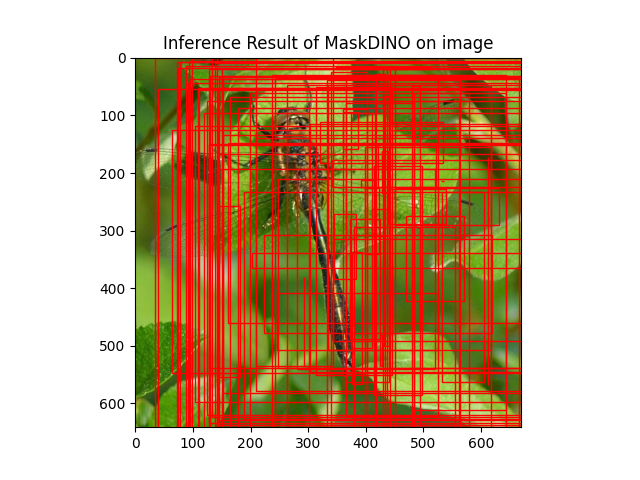
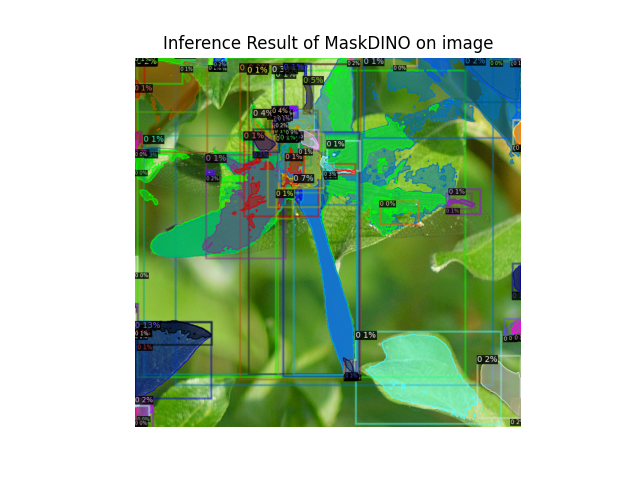
Updating with new inferences

diff --git a/inference_pipeline_mask_dino_zero-shot.py b/inference_pipeline_mask_dino_zero-shot.py
@@ -11,7 +11,8 @@ from sahi.models.base import DetectionModel
 from sahi.prediction import ObjectPrediction
 from sahi.utils.cv import get_bbox_from_bool_mask, get_coco_segmentation_from_bool_mask
 from sahi.utils.import_utils import check_requirements
-
+from detectron2.utils.visualizer import Visualizer
+from detectron2.engine.defaults import DefaultPredictor
 logger = logging.getLogger(__name__)
 # import sys
 # sys.path.insert(0, "/home/mrajaraman/do-not-modify/MassID45/MaskDINO/MaskDINO-MassID45")
@@ -33,7 +34,6 @@ add_deeplab_config(cfg)
 add_maskdino_config(cfg)
 cfg.merge_from_file("/home/mrajaraman/do-not-modify/MassID45/MaskDINO/MaskDINO-MassID45/configs/lifeplan/instance-segmentation/maskdino_R50_bs16_50ep_3s_dowsample1_2048.yaml")
 #cfg.MODEL.WEIGHTS = "/home/mrajaraman/do-not-modify/MassID45/MaskDINO/MaskDINO-MassID45/output_lifeplan_b_512_sahi_tiled_v9_R50_1024_one_cycle_lr_5e-5_colour_augs_15k_iters_scratch/model_final.pth"
-
 # set model device
 # cfg.MODEL.DEVICE = "self.device.type"
 cfg.MODEL.DEVICE = "cuda"
@@ -48,7 +48,8 @@ cfg.freeze()
 predictor = DefaultPredictor(cfg)
 DetectionCheckpointer(predictor.model).load("/home/mrajaraman/Code/model_checkpoints/model_final_maskdino.pth") #, weights_only=False) #, map_location=device)
 print("Model loaded successfully.")
-category_mapping={"1": "b"}
+category_mapping={"1": "head", "2": "thorax", "3": "abdomen", "0": "wings"}
+
 # detectron2 category mapping
 category_names = list(category_mapping.values())
 image = np.array(
@@ -65,24 +66,24 @@ prediction_result = predictor(image)
 # print(prediction_result)
 # original_predictions = prediction_result
 
-img = prediction_result['instances'][0]._fields['pred_masks'].cpu().detach().numpy()
-bbox = []
-print("Number of detected instances is ", len(prediction_result['instances']._fields['pred_boxes'].tensor))
-for i in prediction_result['instances']._fields['pred_boxes'].tensor:
-        print("i is ", i)
-        bbox.append(i.cpu().detach().numpy())
+# img = prediction_result['instances'][0]._fields['pred_masks'].cpu().detach().numpy()
+# bbox = []
+# print("Number of detected instances is ", len(prediction_result['instances']._fields['pred_boxes'].tensor))
+# for i in prediction_result['instances']._fields['pred_boxes'].tensor:
+#         print("i is ", i)
+#         bbox.append(i.cpu().detach().numpy())
 
-# Display the image
-plt.imshow(Image.open('/home/mrajaraman/dataset/originals/img_931176390.jpg'))
+# # Display the image
+# plt.imshow(Image.open('/home/mrajaraman/dataset/originals/img_931176390.jpg'))
 
-# Add the patch to the Axes
-for i in range(len(bbox)):
-        # print("length is ", len(bbox))
-        plt.gca().add_patch(Rectangle((bbox[i][0], bbox[i][1]), bbox[i][2]-bbox[i][0], bbox[i][3]-bbox[i][1], linewidth=1, edgecolor='r', facecolor='none'))
-        print(f"Instance {i+1} added to image")
+# # Add the patch to the Axes
+# for i in range(len(bbox)):
+#         # print("length is ", len(bbox))
+#         plt.gca().add_patch(Rectangle((bbox[i][0], bbox[i][1]), bbox[i][2]-bbox[i][0], bbox[i][3]-bbox[i][1], linewidth=1, edgecolor='r', facecolor='none'))
+#         print(f"Instance {i+1} added to image")
 
-plt.title("Inference Result of MaskDINO on image")
-plt.savefig("inference_maskdino.png")
+# plt.title("Inference Result of MaskDINO on image")
+# plt.savefig("inference_maskdino.png")
 
 # # PROOF THAT RESIZING WORKS AS EXPECTED DURING INFERENCE
 # print(predictor.aug)
@@ -97,3 +98,20 @@ sample_preds = prediction_result['instances'][0]._fields['pred_masks'].cpu().det
 # print(sample_preds)
 # print(sample_preds.shape)
 # print(sample_preds.dtype)
+print(sample_preds)
+# print(sample_preds.shape)
+# print(sample_preds.dtype)
+
+outputs = prediction_result["instances"]
+
+# print(type(outputs))
+# print(type(image))
+
+v = Visualizer(image[:, :, ::-1], metadata=None, scale=1.0)
+out = v.draw_instance_predictions(outputs.to("cpu"))
+plt.imshow(out.get_image())
+plt.axis("off")
+plt.show()
+
+plt.title("Inference Result of MaskDINO on image")
+plt.savefig(f"inference_maskdino.png")

diff --git a/inference_pipeline_mask_dino_trained.py b/inference_pipeline_mask_dino_trained.py
@@ -49,7 +49,8 @@ predictor = DefaultPredictor(cfg)
 # DetectionCheckpointer(predictor.model).load("/home/mrajaraman/master-thesis-dragonfly/external/maskdino-dragonfly/output_lifeplan_b_512_sahi_tiled_v9_R50_1024_one_cycle_lr_5e-5_colour_augs_15k_iters/model_0004884.pth")
 # DetectionCheckpointer(predictor.model).load("/home/mrajaraman/master-thesis-dragonfly/external/maskdino-dragonfly/output_lifeplan_b_512_sahi_tiled_v9_R50_1024_one_cycle_lr_5e-5_colour_augs_15k_iters/model_0009769.pth")
 # DetectionCheckpointer(predictor.model).load("/home/mrajaraman/master-thesis-dragonfly/external/maskdino-dragonfly/output_lifeplan_b_512_sahi_tiled_v9_R50_1024_one_cycle_lr_5e-5_colour_augs_15k_iters/model_0014654.pth")
-DetectionCheckpointer(predictor.model).load("/home/mrajaraman/master-thesis-dragonfly/external/maskdino-dragonfly/output_lifeplan_b_512_sahi_tiled_v9_R50_1024_one_cycle_lr_5e-5_colour_augs_15k_iters/model_final.pth")
+# DetectionCheckpointer(predictor.model).load("/home/mrajaraman/master-thesis-dragonfly/external/maskdino-dragonfly/output_lifeplan_b_512_sahi_tiled_v9_R50_1024_one_cycle_lr_5e-5_colour_augs_15k_iters/model_final.pth")
+DetectionCheckpointer(predictor.model).load("/home/mrajaraman/master-thesis-dragonfly/external/maskdino-dragonfly/output_512_dragonfly_2025-10-02_01-07-38/model_final.pth")
 
 print("Model loaded successfully.")
 category_mapping={"0": "head", "1": "torso", "2": "tail", "3": "wings"}
